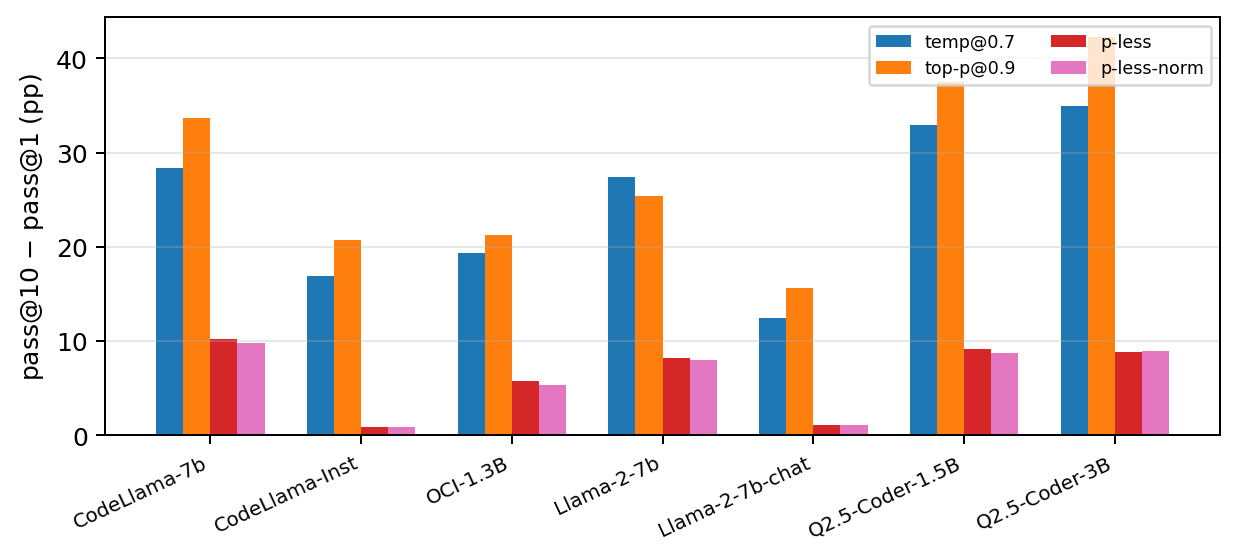
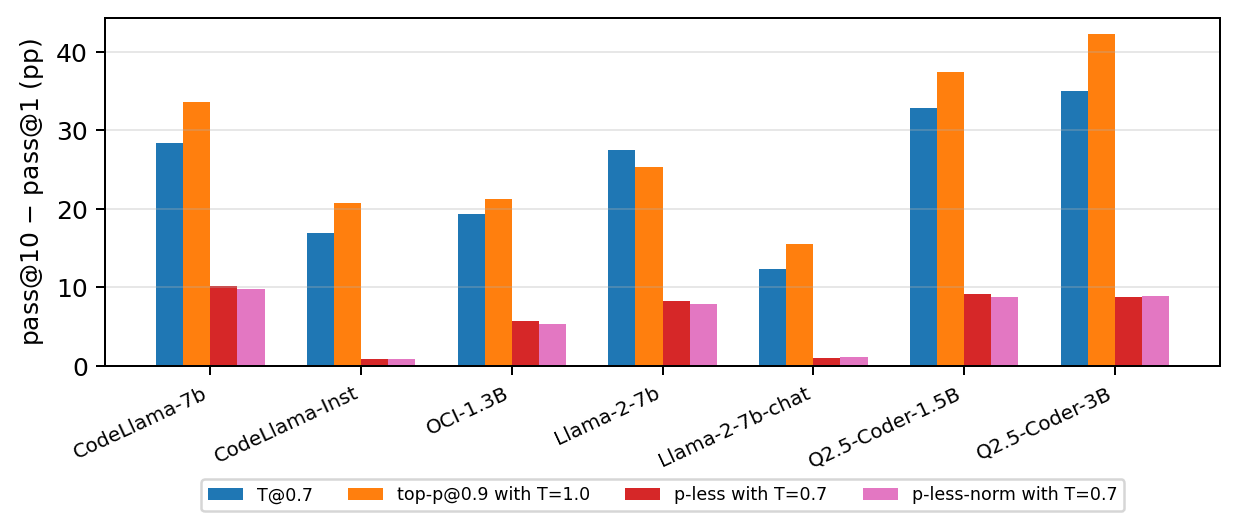
Figs 1/2/5/6: move legends outside plots; rename MBPP config labels
Legend placement -- same overlap-robustness fix as Figs 3/4 (53e491d),
extended to the remaining figures with in-plot legends:
- Fig 2 (fig3b, MBPP lift bars): "upper right" -> below plot
- Fig 5/"fig6a" (reasoning pass@k curves, actually used in the paper as
  fig:reasoning_passk_curves): "lower right" per-panel -> below each
  panel. Kept per-panel (not one shared legend) because the G_k entry
  differs by model (G_k=0.1 Qwen3 vs G_k=0.35 DeepSeek); consolidating
  would have dropped that per-model distinction.
- fig6b (lift bars, NOT currently \includegraphics'd in main.tex):
  "upper right" -> below plot, fixed for consistency/future use.

Label renaming (figures/legends only, per user instruction) applied
to Fig 1 (fig3a) and Fig 2 (fig3b), the only two using the exact MBPP
config strings:
  beam4 -> beam@4
  temp@0.7 -> T@0.7
  top-p@0.9 -> top-p@0.9 with T=1.0 (verified: file is ..._t1.0_...)
  p-less -> p-less with T=0.7 (verified: file is ..._t0.7_...)
  p-less-norm -> p-less-norm with T=0.7 (verified: file is ..._t0.7_...)
Implemented via a DISPLAY_LABEL dict used only at ax.plot/bar(label=...)
call sites -- CONFIG_ORDER/CONFIG_COLORS keys (used for data/color
lookup) are unchanged, so no risk of breaking lookups.

NOT applied to Fig 5/6 (reasoning-model figures): those use different
labels ("recommended", "best top-p (swept)", "G_k=0.1") at a different
temperature (T=1.0 p-less/p-less-norm, not T=0.7) -- the rename
[…]

diff --git a/scripts/paper/make_llm4code_fig3.py b/scripts/paper/make_llm4code_fig3.py
@@ -93,6 +93,17 @@ CONFIG_COLORS = {
     "p-less":      "#d62728",  # matplotlib red
     "p-less-norm": "#e377c2",  # matplotlib pink
 }
+# Display text for figure legends only (CONFIG_ORDER / CONFIG_COLORS keys are
+# unchanged -- still used for data lookup and color lookup throughout).
+# top-p@0.9 is genuinely a T=1.0 config (see top_p0.9_bigcode_t1.0_metrics.json
+# above); p-less/p-less-norm here are both T=0.7 (pless[_norm]_*t0.7*).
+DISPLAY_LABEL = {
+    "beam4":       "beam@4",
+    "temp@0.7":    "T@0.7",
+    "top-p@0.9":   "top-p@0.9 with T=1.0",
+    "p-less":      "p-less with T=0.7",
+    "p-less-norm": "p-less-norm with T=0.7",
+}
 KS = [1, 3, 5, 10]
 
 
@@ -132,7 +143,7 @@ def _make_fig3a(log_scale: bool = False, out_name: str = "fig3a_passk_curves_mbp
         # p-less-norm overlaps p-less near-perfectly (within ~0.5 pp per Table 3A);
         # use a dashed stroke so both are visible without one hiding the other.
         linestyle = "--" if cfg == "p-less-norm" else "-"
-        ax.plot(KS, vals_per_k, marker="o", label=cfg, color=CONFIG_COLORS[cfg], linewidth=1.5, markersize=5, linestyle=linestyle)
+        ax.plot(KS, vals_per_k, marker="o", label=DISPLAY_LABEL.get(cfg, cfg), color=CONFIG_COLORS[cfg], linewidth=1.5, markersize=5, linestyle=linestyle)
     if log_scale:
         ax.set_xscale("log")
     ax.set_xticks(KS)
@@ -166,13 +177,17 @@ def _make_fig3b() -> None:
             p10 = _passk(p, 10) if p else None
             lifts.append((p10 - p1) * 100 if p1 is not None and p10 is not None else 0.0)
         offset = (i - (n_cfgs - 1) / 2) * bar_width
-        ax.bar(x + offset, lifts, bar_width, label=cfg, color=CONFIG_COLORS[cfg])
+        ax.bar(x + offset, lifts, bar_width, label=DISPLAY_LABEL.get(cfg, cfg), color=CONFIG_COLORS[cfg])
 
     ax.set_xticks(x)
     ax.set_xticklabels([m for m, _ in MBPP_CELLS], rotation=25, ha="right", fontsize=8)
     ax.set_ylabel("pass@10 $-$ pass@1 (pp)")
     ax.grid(True, alpha=0.3, axis="y")
-    ax.legend(fontsize=7, loc="upper right", frameon=True, ncols=2)
+    # Legend moved outside (below) rather than "upper right" in-plot -- same
+    # overlap-robustness rationale as fig3a: guaranteed clear of bars by
+    # construction, regardless of bar heights per model.
+    ax.legend(fontsize=7, loc="upper center", bbox_to_anchor=(0.5, -0.3),
+              ncol=4, frameon=True)
     ax.axhline(0, color="black", linewidth=0.5)
     fig.tight_layout()
     for out in (FIG_DIR_CODE, FIG_DIR_PAPER):

diff --git a/scripts/paper/make_llm4code_fig6.py b/scripts/paper/make_llm4code_fig6.py
@@ -66,8 +66,16 @@ def _passk(path: Path, k: int) -> float | None:
 
 
 def _make_fig6a() -> None:
-    """pass@k curves per sampler on APPS-252, 2 panels."""
-    fig, axes = plt.subplots(1, 2, figsize=(8.5, 3.2), sharey=True)
+    """pass@k curves per sampler on APPS-252, 2 panels.
+
+    Legend moved outside each panel (below it) instead of in-plot "lower
+    right", which visually overlapped the climbing p-less/p-less-norm
+    curves. Kept as a PER-PANEL legend (not one shared fig-level legend
+    like Figs 3/4) because the G_k entry differs by model (G_k=0.1 for
+    Qwen3-8B, G_k=0.35 for DeepSeek) -- consolidating into one legend
+    would have to drop that per-model distinction or use a generic label.
+    """
+    fig, axes = plt.subplots(1, 2, figsize=(8.5, 4.3), sharey=True)
     for i, (model, cells) in enumerate(APPS_CELLS):
         ax = axes[i]
         for label, rel in cells.items():
@@ -86,7 +94,8 @@ def _make_fig6a() -> None:
         short = model.replace("-R1-Distill-Llama-8B", "-R1-Distill")
         ax.set_title(short)
         ax.grid(True, alpha=0.3)
-        ax.legend(fontsize=7, loc="lower right", frameon=True)
+        ax.legend(fontsize=6.5, loc="upper center", bbox_to_anchor=(0.5, -0.22),
+                  ncol=2, frameon=True)
     fig.tight_layout()
     for out in (FIG_DIR_CODE, FIG_DIR_PAPER):
         out.mkdir(parents=True, exist_ok=True)
@@ -125,7 +134,9 @@ def _make_fig6b() -> None:
     ax.set_xticklabels([m.replace("-R1-Distill-Llama-8B", "-R1-Distill") for m, _ in APPS_CELLS], fontsize=9)
     ax.set_ylabel("pass@10 $-$ pass@1 (pp)")
     ax.grid(True, alpha=0.3, axis="y")
-    ax.legend(fontsize=7, loc="upper right", frameon=True, ncols=2)
+    # Legend moved outside (below) rather than "upper right" in-plot.
+    ax.legend(fontsize=7, loc="upper center", bbox_to_anchor=(0.5, -0.25),
+              ncol=3, frameon=True)
     ax.axhline(0, color="black", linewidth=0.5)
     fig.tight_layout()
     for out in (FIG_DIR_CODE, FIG_DIR_PAPER):
